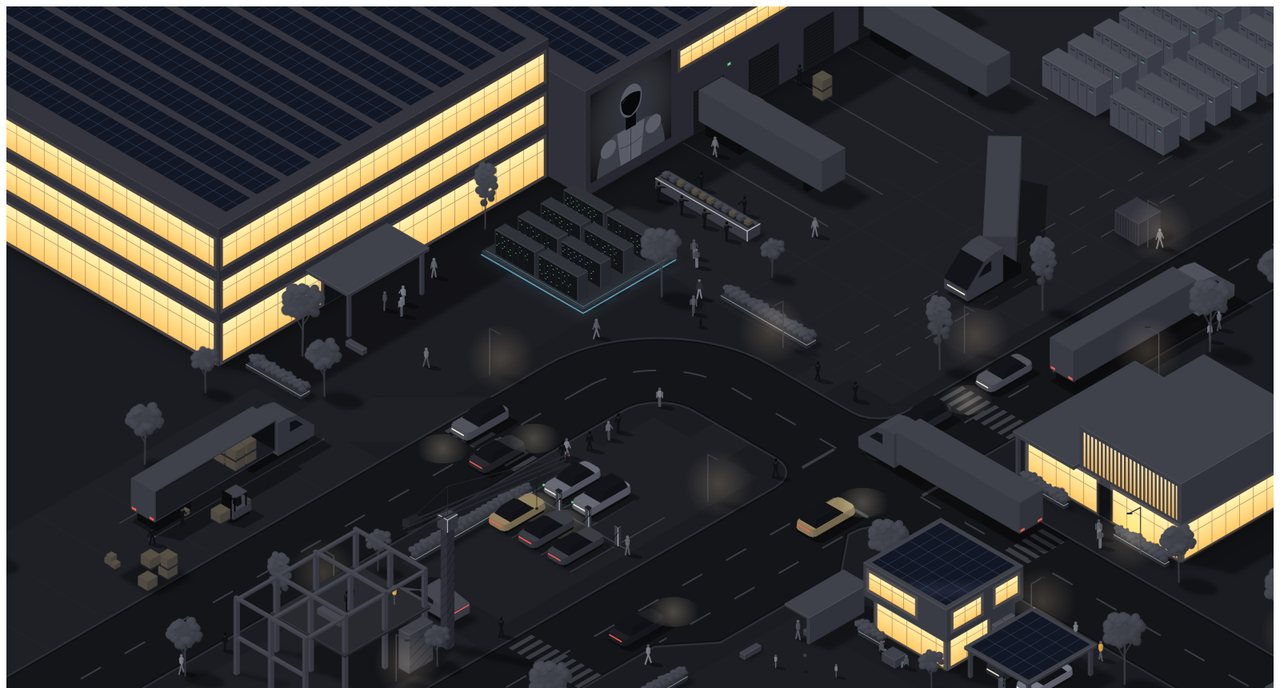
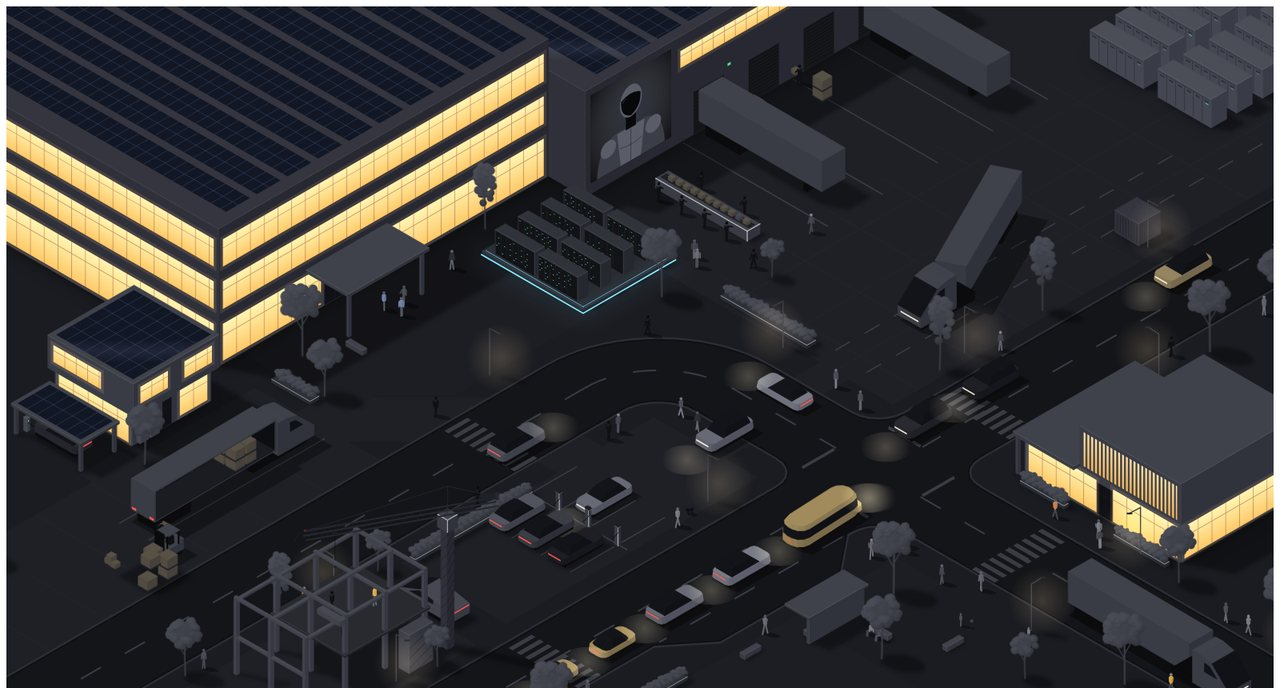
living-city: home beside the loading bay, Megapacks clear of the docks
The house with its solar roof, wall batteries and carport charger moves
to the left of the scene, between the factory corner and the loading
bay, with a path to its door from the plaza. The bottom-right corner is
a park again: kids with a ball, a bench with two people, trees.

The battery yard moves further north so every dock, the parked trailers
included, has a clear apron of about 8 m in front of it.

The demo page's heading label gets proper line spacing, and the copy
button moves beside the "Drop it in" heading so it no longer covers the
code on phones.

Claude-Session: https://claude.ai/code/session_012ySDijcC9S9qEJByotkpyp

diff --git a/packages/living-city/src/engine/world.ts b/packages/living-city/src/engine/world.ts
@@ -3,10 +3,10 @@
 // Layout (world units ≈ metres). Roads: an avenue along y at x 68–76, a street along x at y 42–50 that bends into
 // the factory road along y at x 44–52. Factory top-left with the AI compute on the plaza in front of it; the dock
 // wing and an open truck yard (gate off the avenue, exit onto the street) top-centre, battery yard top-right;
-// loading bay left; charging lot and construction bottom-centre; pavilion, robotaxi stop and a home with carport
-// bottom-right.
+// a home with carport and the loading bay left; charging lot and construction bottom-centre; pavilion, robotaxi
+// stop and park bottom-right.
 
-import { C, makeRng, pick, rr, type Mat } from './core';
+import { C, makeRng, pick, rr } from './core';
 import { arcPts, box, boxShadow, drawMesh, groundPoly, groundRect, lineW, onFaceX, onFaceY, rectShadow, type Ctx, type R } from './draw';
 import { batteryFront, batteryLed, rackFront, rackLeds, solarGlint, solarRoof, windowsX, windowsY, type Band } from './details';
 import type { Palette } from './palette';
@@ -246,9 +246,9 @@ export function buildWorld(pal: Palette, sprites: Sprites, opts: WorldOptions): 
   }
 
   // ------------------------------------------------------------------------------------------------- battery yard
-  // north of the live docks, clear of the yard lane
+  // north of the docks with a clear apron in front of every one of them, and clear of the yard lane
   let bseed = 0;
-  for (let y0 = -1.2; y0 > -22; y0 -= 2.8) {
+  for (let y0 = -6.4; y0 > -26; y0 -= 2.8) {
     for (const [x0, x1] of [[44.4, 50.2], [51.8, 57.6]]) {
       const s = bseed++;
       S.push(new BoxItem(x0, y0, 0, x1, y0 + 1.7, 2.7, pal.bright, { edge }, (r) => batteryFront(r, pal, x0, x1, y0 + 1.7, 2.7)).live((r) => batteryLed(r, pal, x0, x1, y0 + 1.7, 2.7, s)));
@@ -304,67 +304,59 @@ export function buildWorld(pal: Palette, sprites: Sprites, opts: WorldOptions): 
   S.push(new BoxItem(82.0, 59.8, 2.5, 84.7, 66.2, 2.72, pal.white, { edge }));
 
   // ------------------------------------------------------------------------------------------------- home: solar roof, batteries, carport charging
+  // on the left, between the factory corner and the loading bay
   S.push(
-    new BoxItem(86.5, 53.6, 0, 94.5, 61, 3.2, pal.white, { edge }, (r) => {
-      windowsY(r, pal, 86.5, 94.5, 61, 3.2, [{ top: 0.3, bot: 3.05, every: 1.6, spans: [[0.4, 7.6]] }]);
-      windowsX(r, pal, 94.5, 53.6, 61, 3.2, [{ top: 0.35, bot: 2.95, every: 1.75, spans: [[0.4, 4.4]] }]);
+    new BoxItem(20.4, 75.6, 0, 28.8, 84.2, 3.2, pal.white, { edge }, (r) => {
+      windowsY(r, pal, 20.4, 28.8, 84.2, 3.2, [{ top: 0.3, bot: 3.05, every: 1.6, spans: [[0.4, 8.0]] }]);
+      windowsX(r, pal, 28.8, 75.6, 84.2, 3.2, [{ top: 0.35, bot: 2.95, every: 1.5, spans: [[5.2, 8.2]] }, { top: 0.7, bot: 3.2, every: 1, spans: [[3.3, 4.3]], dark: true }]);
     }),
   );
   S.push(
-    new BoxItem(86, 53.2, 3.2, 95, 61.6, 6.3, pal.white, { edge }, (r) => {
-      windowsY(r, pal, 86, 95, 61.6, 6.3, [{ top: 0.65, bot: 2.25, every: 1.25, spans: [[0.6, 5.6]] }]);
-      windowsX(r, pal, 95, 53.2, 61.6, 6.3, [{ top: 0.65, bot: 2.25, every: 1.25, spans: [[0.8, 3.8], [5.4, 7.8]] }]);
-      solarRoof(r, pal, 86, 53.2, 95, 61.6, 6.3, 0.45);
-    }).live((r) => solarGlint(r, 86, 53.2, 95, 61.6, 6.3, 0.45, 0.35)),
+    new BoxItem(20, 75.2, 3.2, 29.3, 84.6, 6.3, pal.white, { edge }, (r) => {
+      windowsY(r, pal, 20, 29.3, 84.6, 6.3, [{ top: 0.65, bot: 2.25, every: 1.25, spans: [[0.6, 5.8]] }]);
+      windowsX(r, pal, 29.3, 75.2, 84.6, 6.3, [{ top: 0.65, bot: 2.25, every: 1.25, spans: [[0.8, 3.8], [5.6, 8.6]] }]);
+      solarRoof(r, pal, 20, 75.2, 29.3, 84.6, 6.3, 0.45);
+    }).live((r) => solarGlint(r, 20, 75.2, 29.3, 84.6, 6.3, 0.45, 0.35)),
   );
-  // home batteries on the side wall, facing the carport
-  for (const y of [54.0, 55.15]) {
+  // home batteries on the wall facing the bay
+  for (const y of [81.6, 82.75]) {
     S.push(
-      new BoxItem(94.5, y, 0.15, 94.88, y + 0.95, 1.95, pal.bright, { edge }).live((r) => {
+      new BoxItem(28.8, y, 0.15, 29.18, y + 0.95, 1.95, pal.bright, { edge }).live((r) => {
         const p = 0.5 + 0.5 * Math.sin(r.t * 1.4 + y);
         const ctx = r.ctx;
         ctx.globalAlpha = 0.4 + 0.6 * p;
         ctx.fillStyle = pal.led;
-        const X = (94.88 - (y + 0.48)) * C, Y = (94.88 + y + 0.48) * 0.5 - 1.55;
+        const X = (29.18 - (y + 0.48)) * C, Y = (29.18 + y + 0.48) * 0.5 - 1.55;
         ctx.fillRect(X - 0.04, Y - 0.12, 0.08, 0.24);
         ctx.globalAlpha = 1;
       }),
     );
   }
-  // garden table, two people sitting
-  S.push(new BoxItem(90.0, 62.4, 0, 91.4, 63.6, 0.74, pal.white, { edge }));
-  for (const [x, y, fx] of [[89.35, 63.0, 1], [92.05, 63.0, -1]]) {
-    const w = new Walker('person', pal, rng, x, y);
-    w.stance = 'sit';
-    w.face(fx, 0);
-    crowd.add(w);
-  }
-  // carport with a solar roof: two cars nosed in, one on its charger
-  S.push(new BoxItem(96, 53.2, 2.6, 103, 60.6, 2.85, pal.white, { edge }, (r) => solarRoof(r, pal, 96, 53.2, 103, 60.6, 2.85, 0.35)).live((r) => solarGlint(r, 96, 53.2, 103, 60.6, 2.85, 0.35, 0.8)));
-  for (const [x, y] of [[96.2, 53.4], [102.55, 53.4], [96.2, 60.15], [102.55, 60.15]]) S.push(new BoxItem(x, y, 0, x + 0.26, y + 0.26, 2.6, pal.white));
+  // carport with a solar roof, the car on its charger
+  S.push(new BoxItem(21, 85.4, 2.6, 28.6, 89.6, 2.85, pal.white, { edge }, (r) => solarRoof(r, pal, 21, 85.4, 28.6, 89.6, 2.85, 0.35)).live((r) => solarGlint(r, 21, 85.4, 28.6, 89.6, 2.85, 0.35, 0.8)));
+  for (const [x, y] of [[21.15, 85.55], [28.2, 85.55], [21.15, 89.2], [28.2, 89.2]]) S.push(new BoxItem(x, y, 0, x + 0.25, y + 0.25, 2.6, pal.white));
   S.push(
-    new FnItem(99.3, 59.85, 0, 99.75, 60.25, 1.3, (r) => {
-      box(r, 99.32, 59.88, 0, 99.72, 60.22, 1.25, pal.bright, { edge });
+    new FnItem(21.35, 88.25, 0, 21.75, 88.65, 1.3, (r) => {
+      box(r, 21.38, 88.28, 0, 21.72, 88.62, 1.25, pal.bright, { edge });
       const p = 0.5 + 0.5 * Math.sin(r.t * 2.2);
       const ctx = r.ctx;
       ctx.globalAlpha = 0.45 + 0.55 * p;
       ctx.fillStyle = pal.led;
-      const X = (99.72 - 60.05) * C, Y = (99.72 + 60.05) * 0.5 - 0.95;
+      const X = (21.72 - 88.45) * C, Y = (21.72 + 88.45) * 0.5 - 0.95;
       ctx.fillRect(X - 0.04, Y - 0.1, 0.08, 0.2);
       ctx.globalAlpha = 1;
       ctx.strokeStyle = pal.night ? '#0c0c0e' : '#3b3d44';
       ctx.lineWidth = 0.07;
       ctx.beginPath();
-      const ex = (98.9 - 59.2) * C, ey = (98.9 + 59.2) * 0.5 - 0.75;
+      const ex = (22.5 - 88.2) * C, ey = (22.5 + 88.2) * 0.5 - 0.7;
       ctx.moveTo(X, Y + 0.15);
       ctx.quadraticCurveTo((X + ex) / 2, Y + 0.6, ex, ey);
       ctx.stroke();
     }),
   );
-  const carportCars: [number, Mat, VehicleKind][] = [[97.9, pal.paints[4], 'suv'], [101.1, pal.paints[0], 'car']];
-  for (const [x, paint, kind] of carportCars) {
-    const mats = [paint, pal.carGlass, pal.tyre, pal.headlight, pal.taillight];
-    S.push(new FnItem(x - 1.0, 54.6, 0, x + 1.0, 59.4, 1.65, (r) => drawMesh(r, MESH[kind as 'car'], x, 57.0, 0, 0, 1, mats), (ctx) => rectShadow(ctx, x, 57.0, 0, 1, 2.3, 0.95, 1.2)).still());
+  {
+    const mats = [pal.paints[4], pal.carGlass, pal.tyre, pal.headlight, pal.taillight];
+    S.push(new FnItem(22.2, 86.5, 0, 27.0, 88.5, 1.65, (r) => drawMesh(r, MESH.suv, 24.6, 87.5, 0, -1, 0, mats), (ctx) => rectShadow(ctx, 24.6, 87.5, -1, 0, 2.3, 0.95, 1.2)).still());
   }
 
   // ------------------------------------------------------------------------------------------------- construction site
@@ -408,15 +400,15 @@ export function buildWorld(pal: Palette, sprites: Sprites, opts: WorldOptions): 
   const trees: [number, number, 'tree' | 'tree2' | 'poplar' | 'small', number][] = [
     [29.6, 66.4, 'tree', 1], [34.6, 69.0, 'tree2', 0.9], [43.6, 41.2, 'tree', 0.95], [27.6, 44.5, 'poplar', 0.9],
     [65.7, 21.8, 'poplar', 1], [65.7, 33.0, 'poplar', 1], [65.8, -9, 'poplar', 1], [78.7, 16.5, 'tree', 1],
-    [83.5, 56.3, 'tree', 0.95], [95.6, 63.8, 'small', 0.9], [105.5, 52.6, 'tree', 1], [54.0, 82.6, 'small', 0.9],
+    [84.3, 56.6, 'tree', 1], [89.8, 63.4, 'tree2', 1], [99.5, 57.5, 'small', 1], [105.5, 52.6, 'tree', 1], [54.0, 82.6, 'small', 0.9],
     [53.2, 92.5, 'poplar', 0.9], [53.4, 103, 'tree2', 0.9], [31.0, 103.5, 'tree', 1], [31.2, 85.2, 'tree2', 0.95],
-    [27.8, 75.2, 'small', 1], [98.8, 40.0, 'tree2', 0.9], [110, 39.6, 'tree', 1], [78.8, 88.5, 'tree', 1],
+    [18.6, 74.4, 'small', 0.9], [98.8, 40.0, 'tree2', 0.9], [110, 39.6, 'tree', 1], [78.8, 88.5, 'tree', 1],
     [66.3, 88.4, 'small', 0.9], [78.7, 9, 'tree2', 1], [47.8, 33.4, 'small', 0.85],
   ];
   trees.forEach(([x, y, k, s], i) => S.push(new TreeItem(sprites, x, y, k, s, i * 1.7)));
   const hedges: number[][] = [
-    [27.6, 69.6, 33.6, 70.6], [47.0, 37.2, 56.4, 38.2], [54.7, 67.0, 55.3, 79.8], [80.6, 76.0, 81.2, 86.0],
-    [80.8, 38.85, 85.6, 39.35], [91, 38.85, 96.6, 39.35], [86.2, 61.9, 88.6, 62.4],
+    [30.4, 69.6, 34.6, 70.6], [47.0, 37.2, 56.4, 38.2], [54.7, 67.0, 55.3, 79.8], [80.6, 76.0, 81.2, 86.0],
+    [80.8, 38.85, 85.6, 39.35], [91, 38.85, 96.6, 39.35],
   ];
   hedges.forEach((h, i) => S.push(new HedgeItem(sprites, h[0], h[1], h[2], h[3], pal.planter, i)));
   const lamps: number[][] = [
@@ -424,7 +416,7 @@ export function buildWorld(pal: Palette, sprites: Sprites, opts: WorldOptions): 
     [94, 39.4, 0, 1.2], [112, 39.4, 0, 1.2], [95.3, 52.6, 0, -1.2], [54.6, 88, -1.2, 0], [41.6, 58, 1.2, 0], [55.0, 39.4, 0, 1.2],
   ];
   for (const [x, y, ax, ay] of lamps) S.push(new LampItem(x, y, ax, ay, pal.steel, pal.factoryDark.right));
-  for (const [x0, y0, x1, y1] of [[31.0, 62.6, 32.8, 63.1], [81.9, 69.2, 82.4, 71.0]]) {
+  for (const [x0, y0, x1, y1] of [[31.0, 62.6, 32.8, 63.1], [81.9, 69.2, 82.4, 71.0], [86.6, 60.9, 88.4, 61.4], [92.2, 57.4, 92.7, 59.2]]) {
     S.push(new BoxItem(x0, y0, 0, x1, y1, 0.45, pal.white, { edge }));
   }
   // people chatting
@@ -453,11 +445,18 @@ export function buildWorld(pal: Palette, sprites: Sprites, opts: WorldOptions): 
   lot.seed(2);
   acts.push(lot);
   acts.push(new TaxiStop(env, (w) => crowd.adopt(w)));
-  acts.push(new Park(env, [[84.8, 70.0], [89.0, 67.6]]));
+  acts.push(new Park(env, [[91, 56], [96, 53.6]]));
+  // two people on a park bench
+  for (const x of [87.0, 87.95]) {
+    const w = new Walker('person', pal, rng, x, 61.75);
+    w.stance = 'sit';
+    w.face(0, 1);
+    crowd.add(w);
+  }
   // dock and yard robots
   acts.push(new Looper(env, 'robot', () => [{ x: 30.9, y: 13.6, wait: 0.8, then: (w) => (w.carry = true) }, { x: 32.4, y: 13.4, wait: 0.8, then: (w) => (w.carry = false) }], 30.9, 13.6));
   acts.push(new Looper(env, 'robot', () => [{ x: 30.9, y: 19.4, wait: 0.9, then: (w) => (w.carry = true) }, { x: 36.4, y: 19.5, wait: 0.8, then: (w) => (w.carry = false) }], 30.9, 19.4));
-  acts.push(new Looper(env, 'robot', () => [{ x: 51, y: 0.6, wait: 3 }, { x: 51, y: -6.5, wait: 4 }, { x: 51, y: -12.2, wait: 3 }], 51, -3));
+  acts.push(new Looper(env, 'robot', () => [{ x: 51, y: -4.6, wait: 3 }, { x: 51, y: -10.5, wait: 4 }, { x: 51, y: -16.2, wait: 3 }], 51, -8));
 
   // ------------------------------------------------------------------------------------------------- walkways
   const g = graph;
@@ -499,7 +498,8 @@ export function buildWorld(pal: Palette, sprites: Sprites, opts: WorldOptions): 
   g.link(p[4], sn[1]);
   g.chain([dockDoor, yardA, yardB, sn[2]]);
   // the front door of the house on the corner
-  g.link(g.node(90.5, 53.0, true), sse[1]);
+  // round the plaza hedge to the front door of the house beside the bay
+  g.chain([p[0], g.node(28.1, 66.2), g.node(29.9, 73.6), g.node(29.9, 80.4, true)]);
   const pd = g.node(88.6, 38.8, true);
   g.link(pd, sne[0]);
   // round the west side of the house and along its garden
@@ -581,7 +581,7 @@ export function buildWorld(pal: Palette, sprites: Sprites, opts: WorldOptions): 
     groundRect(ctx, 54.5, 53, 66, 80.6);
     groundRect(ctx, 58.4, 50, 62.4, 53.2);
     groundRect(ctx, 51.8, 58.6, 54.7, 63.6);
-    groundRect(ctx, 96, 50.2, 103, 53.4);
+    groundRect(ctx, 28.6, 85.2, 30, 89.8);
     groundRect(ctx, 54.5, 84.2, 66.4, 120);
     ctx.fill();
     // the truck's way out across the plaza corner

diff --git a/packages/living-city/artifact/page.html b/packages/living-city/artifact/page.html
@@ -58,7 +58,7 @@
   .page { max-width: 1320px; margin: 0 auto; display: grid; gap: 22px; }
 
   header { display: flex; flex-wrap: wrap; align-items: flex-end; justify-content: space-between; gap: 12px 32px; }
-  .eyebrow { margin: 0 0 6px; font: 500 12px/1 var(--font-mono); letter-spacing: 0.08em; text-transform: uppercase; color: var(--muted); }
+  .eyebrow { margin: 0 0 8px; font: 500 12px/1.5 var(--font-mono); letter-spacing: 0.08em; text-transform: uppercase; color: var(--muted); }
   h1 { margin: 0; font: 600 clamp(28px, 4vw, 40px)/1.05 var(--font-display); letter-spacing: -0.02em; text-wrap: balance; }
   .lede { margin: 0; max-width: 58ch; color: var(--muted); }
 
@@ -92,7 +92,8 @@
   .panel { min-width: 0; border: 1px solid var(--line); border-radius: 16px; background: var(--surface); padding: 18px 20px; display: grid; gap: 12px; align-content: start; }
   h2 { margin: 0; font: 600 18px/1.2 var(--font-display); letter-spacing: -0.01em; }
   .panel p { margin: 0; color: var(--muted); max-width: 62ch; }
-  .code { position: relative; min-width: 0; }
+  .code { min-width: 0; }
+  .panel-head { display: flex; align-items: center; justify-content: space-between; gap: 12px; }
   .panel > * { min-width: 0; }
   pre {
     margin: 0; overflow-x: auto; padding: 14px 16px; border-radius: 12px; background: var(--code-bg); border: 1px solid var(--line);
@@ -101,8 +102,8 @@
   .tok-k { color: var(--accent); }
   .tok-s { color: var(--muted); }
   .copy {
-    position: absolute; top: 8px; right: 8px; font: 500 12px/1 var(--font-body); color: var(--muted);
-    background: var(--surface); border: 1px solid var(--line); border-radius: 8px; padding: 6px 9px; cursor: pointer;
+    font: 500 12px/1 var(--font-body); color: var(--muted);
+    background: var(--surface); border: 1px solid var(--line); border-radius: 8px; padding: 7px 10px; cursor: pointer;
   }
   .copy:focus-visible { outline: 2px solid var(--accent); outline-offset: 2px; }
   ol { margin: 0; padding-left: 1.2em; display: grid; gap: 8px; color: var(--muted); }
@@ -115,7 +116,7 @@
       <p class="eyebrow">React component · one canvas · no other dependencies</p>
       <h1>Living City</h1>
     </div>
-    <p class="lede">The campus illustration, running. Semis get loaded at the bay, robotaxis swap passengers, cars charge, the crane swings and humanoid robots work and walk among people. It follows this page's light or dark mode on its own.</p>
+    <p class="lede">The campus illustration, running. Semis back into the factory docks and get loaded at the bay, robotaxis swap passengers, cars charge, the crane swings and humanoid robots work and walk among people. It follows this page's light or dark mode on its own.</p>
   </header>
 
   <section class="stage" aria-label="Live scene">
@@ -148,14 +149,16 @@
 
   <section class="usage">
     <div class="panel">
-      <h2>Drop it in</h2>
+      <div class="panel-head">
+        <h2>Drop it in</h2>
+        <button type="button" class="copy" id="copy">Copy code</button>
+      </div>
       <div class="code">
         <pre id="snippet"><span class="tok-k">import</span> { LivingCity } <span class="tok-k">from</span> <span class="tok-s">'living-city'</span>;
 
 <span class="tok-k">export function</span> Hero() {
   <span class="tok-k">return</span> &lt;LivingCity style={{ borderRadius: 24 }} /&gt;;
 }</pre>
-        <button type="button" class="copy" id="copy">Copy</button>
       </div>
       <p>It takes the full width of its container and keeps the scene's 1.86 : 1 shape. Give it a height and it fills that box instead, cropping the edges. It pauses while scrolled out of view.</p>
     </div>
@@ -236,7 +239,7 @@
     document.getElementById('copy').addEventListener('click', function () {
       var btn = this;
       var text = document.getElementById('snippet').textContent;
-      var done = function () { btn.textContent = 'Copied'; setTimeout(function () { btn.textContent = 'Copy'; }, 1600); };
+      var done = function () { btn.textContent = 'Copied'; setTimeout(function () { btn.textContent = 'Copy code'; }, 1600); };
       var select = function () {
         var r = document.createRange(); r.selectNodeContents(document.getElementById('snippet'));
         var s = window.getSelection(); s.removeAllRanges(); s.addRange(r); btn.textContent = 'Selected';

diff --git a/packages/living-city/README.md b/packages/living-city/README.md
@@ -17,9 +17,9 @@ it plays.
 - **Charging**: cars nose into the chargers, charge (with a pulsing light and cable), back out and leave.
 - **Robotaxi stop**: pods and the van pull into the bay, open their doors, let people off, pick people up and go.
 - **Construction**: a tower crane swings between the material pile and the slab while workers move around.
-- **The home on the corner**: solar roof, wall batteries with breathing status lights, and a carport where one car is
-  on its charger.
-- **Ambient detail**: walkers on a walkway network, people chatting, sitting in a garden or playing ball,
+- **The home beside the loading bay**: solar roof, wall batteries with breathing status lights, and a carport where
+  the car is on its charger.
+- **Ambient detail**: walkers on a walkway network, people chatting, sitting on a bench or playing ball in the park,
   a dog on a walk, trees swaying, glints sweeping across solar roofs, blinking server racks, a breathing AI-compute
   glow and pulsing battery status lights.
 
